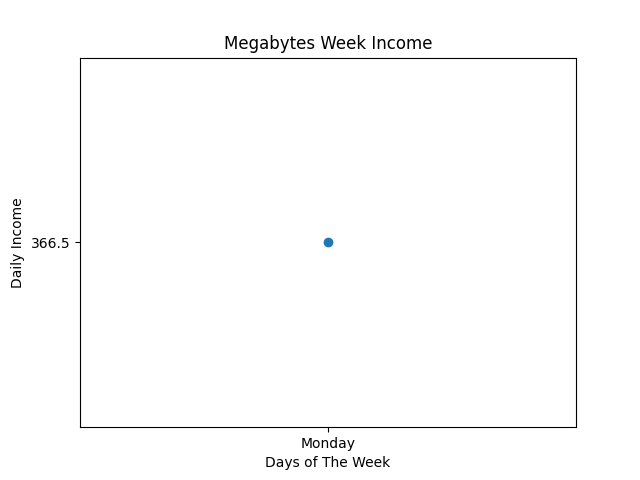
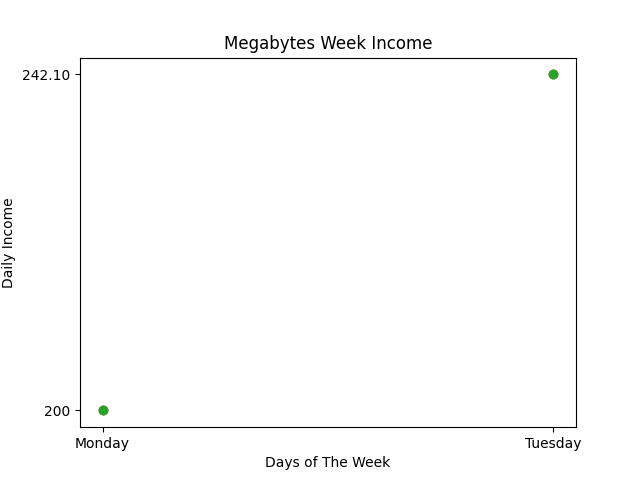
daily sales now on home page

diff --git a/website/templates/wednesday.html b/website/templates/wednesday.html
@@ -7,7 +7,7 @@
             <p>Please Type Data According to Your Till Report</p>
 
             <table>
-                <form action="/submit" method="post">
+                <form action="/submit_wednesday" method="post">
                     <tr>
                         <th></th>
                         <th>Total Income</th>
@@ -20,12 +20,12 @@
                     </tr>
                     <tr>
                         <th>Input Data</th>
-                        <th><input type="text" id="total_income" name="total_income"></th>
-                        <th><input type="text" id="highest_spend" name="highest_spend"></th>
-                        <th><input type="text" id="best_selling_item" name="best_selling_item"></th>
-                        <th><input type="text" id="worst_selling_item" name="worst_selling_item"></th>
-                        <th><input type="text" id="avg_basket_spend" name="avg_basket_spend"></th>
-                        <th><input type="text" id="staff_mvp" name="staff_mvp"> </th>
+                        <th><input type="text" id="total_income" name="total_income_wednesday"></th>
+                        <th><input type="text" id="highest_spend" name="highest_spend_wednesday"></th>
+                        <th><input type="text" id="best_selling_item" name="best_selling_item_wednesday"></th>
+                        <th><input type="text" id="worst_selling_item" name="worst_selling_item_wednesday"></th>
+                        <th><input type="text" id="avg_basket_spend" name="avg_basket_spend_wednesday"></th>
+                        <th><input type="text" id="staff_mvp" name="staff_mvp_wednesday"> </th>
                         <th><button type="submit">Submit Data</button></th>
                     </tr>
                 </form>
@@ -38,63 +38,68 @@
         {% if week_data %}
             <div>
                 <p>Here's What Happened Today.</p>
-                {% for data in week_data %}
-                <form action="/edit_wednesday/{{ data.id }}" method="post"></form>
-                    <table>
-                        <tr>
-                            <th></th>
-                            <th>Data</th>
-                            <th>Edit Data</th>
-                        </tr>
-                        <tr>
-                            <th>Total Income</th>
-                            <th>{{ data.total_income }}</th>
-                            <th><input type="text" name="edit_total_income" placeholder="Edit Data"><br></th>
-                            <th><button type="submit">Update Data</button></th>
-                        </tr>
-                        <tr>
-                            <th>Highest Spend</th>
-                            <th>{{ data.highest_spend }}</th>
-                            <th><input type="text" name="edit_highest_spend" placeholder="Edit Data"></th>
-                            <th><button type="submit">Update Data</button></th>
-                        </tr>
-                        <tr>
-                            <th>Best Selling Item</th>
-                            <th>{{ data.best_selling_item }}</th>
-                            <th><input type="text" name="edit_best_selling_item" placeholder="Edit Data"></th>
-                            <th><button type="submit">Update Data</button></th>
-                        </tr>
-                        <tr>
-                            <th>Worst Selling Item</th>
-                            <th>{{ data.worst_selling_item }}</th>
-                            <th><input type="text" name="edit_worst_selling_item" placeholder="Edit Data"></th>
-                            <th><button type="submit">Update Data</button></th>
-                        </tr>
-                        <tr>
-                            <th>Average Basket Spend</th>
-                            <th>{{ data.avg_basket_spend }}</th>
-                            <th><input type="text" name="edit_avg_basket_spend" placeholder="Edit Data"></th>
-                            <th><button type="submit">Update Data</button></th>
-                        </tr>
-                        <tr>
-                            <th>Staff MVP</th>
-                            <th>{{ data.staff_mvp }}</th>
-                            <th><input type="text" name="edit_staff_mvp" placeholder="Edit Data"></th>
-                            <th><button type="submit">Update Data</button></th>
-                        </tr>
-                    </table>
-                </form>
+
+                <table>
+                    <tr>
+                        <th>Total Income</th>
+                        <th>Highest Speed</th>
+                        <th>Best Selling Item</th>
+                        <th>Worst Selling Item</th>
+                        <th>Average Basket Spend</th>
+                        <th>Staff MVP</th>
+                        <th></th>
+                    </tr>
+
+                    {% for data in week_data %}
+                    <tr>
+                        <td>{{ data.total_income }}</td>
+                        <td>{{ data.highest_spend }}</td>
+                        <td>{{ data.best_selling_item }}</td>
+                        <td>{{ data.worst_selling_item }}</td>
+                        <td>{{ data.avg_basket_spend }}</td>
+                        <td>{{ data.staff_mvp }}</td>
+                        <td></td>
+                    </tr>
+                    <tr>
+                        <form action="/edit_wednesday/{{ data.id }}" method="post"></form>
+                            <td>
+                                <input type="text" name="edit_total_income" placeholder="Edit Data">
+                            </td>
+                            <td>
+                                <input type="text" name="edit_highest_spend" placeholder="Edit Data">
+                            </td>
+                            <td>
+                                <input type="text" name="edit_best_selling_item" placeholder="Edit Data">
+                            </td>
+                            <td>
+                                <input type="text" name="edit_worst_selling_item" placeholder="Edit Data">
+                            </td>
+                            <td>
+                                <input type="text" name="edit_avg_basket_spend" placeholder="Edit Data">
+                            </td>
+                            <td>
+                                <input type="text" name="edit_staff_mvp" placeholder="Edit Data">
+                            </td>
+                            <td>
+                                <form action="/edit_wednesday/{{ data.id }}" method="post"></form>
+                            </td>
+                            <td>
+                                <button type="submit">Update Data</button>
+                            </td>
+                        </form>
+                    </tr>
+                </table>
                 {% endfor %}
             </div>
 
     <br>
     <hr>
 
-<div class="charts-container">
-    <img class="chart" src="{{ url_for('static', filename='Monday-Drink.png') }}" alt="Drinks">
-    <img class="chart" src="{{ url_for('static', filename='Monday-Food.png') }}" alt="Food">
-    <img class="chart" src="\static\images\Payment Methods used Wednesday.png" alt="Payment Methods used Wednesday - Pie Chart">
-</div>
-{% endif %}
+            <div class="charts-container">
+                <img class="chart" src="{{ url_for('static', filename='Monday-Drink.png') }}" alt="Drinks">
+                <img class="chart" src="{{ url_for('static', filename='Monday-Food.png') }}" alt="Food">
+                <img class="chart" src="\static\images\Payment Methods used Wednesday.png" alt="Payment Methods used Wednesday - Pie Chart">
+            </div>
+        {% endif %}
 </div>
 {% endblock %}

diff --git a/website/templates/index.html b/website/templates/index.html
@@ -21,7 +21,6 @@
             </div>
         </div>
     </header>
-
     <main>
         <div class="day-container">
             <!-- Links to each day's page -->
@@ -45,20 +44,88 @@
     <p class="centered-text"> 
         Our menu is always changing to reflect the latest trends and flavours.
     </p>
+    <hr>
+    <br>
+    <br>
 
     <div>
-        <hr><br>
-        <div>
 
-            <p>Megabytes Week Income</p>
+            <h2>Megabytes Week Income</h2>
             {% if week_data %}
             <div>
                 <p><img src="\static\images\week_income.png"></p>
-            </div>
-            {% endif %}
 
         </div>
 
+        <div>
+            <h2> Daily Sales Overview</h2>
+
+            {% for data in week_data %}
+            <div>
+                {{ data.id }}
+                <table>
+                    <tr>
+                        <th></th>
+                        <th>Total Income</th>
+                        <th>Highest Spend</th>
+                        <th>Best Selling Item</th>
+                        <th>Worst Selling Item</th>
+                        <th>Average Basket Spend</th>
+                        <th>Staff MVP</th>
+                    </tr>
+                    <tr>
+                        <td>Edit Data</td>
+                        <form action="/edit_total_income/{{ data.id }}" method="post">
+                            <td>
+                            {{ data.total_income }}<br>
+                            <input type="text" name="edit_total_income" placeholder="Edit Data"><br>
+                            <button type="submit">Update Data</button>
+                            </td>
+                        </form>
+                        <form action="/edit_highest_spend/{{ data.id }}" method="post">
+                            <td>
+                            {{ data.highest_spend }}<br>
+                            <input type="text" name="edit_highest_spend" placeholder="Edit Data"><br>
+                            <button type="submit">Update Data</button>
+                            </td>
+                        </form>
+                        <form action="/edit_best_selling_item/{{ data.id }}" method="post">
+                            <td>
+                            {{ data.best_selling_item }}<br>
+                            <input type="text" name="edit_best_selling_item" placeholder="Edit Data"><br>
+                            <button type="submit">Update Data</button>
+                            </td>
+                        </form>
+                        <form action="/edit_worst_selling_item/{{ data.id }}" method="post">
+                            <td>
+                            {{ data.worst_selling_item }}<br>
+                            <input type="text" name="edit_worst_selling_item" placeholder="Edit Data"><br>
+                            <button type="submit">Update Data</button>
+                            </td>
+                        </form>
+                        <form action="/edit_avg_basket_spend/{{ data.id }}" method="post">
+                            <td>
+                            {{ data.avg_basket_spend }}<br>
+                            <input type="text" name="edit_avg_basket_spend" placeholder="Edit Data"><br>
+                            <button type="submit">Update Data</button>
+                            </td>
+                        </form>
+                        <form action="/edit_staff_mvp/{{ data.id }}" method="post">
+                            <td>
+                            {{ data.staff_mvp }}<br>
+                            <input type="text" name="edit_staff_mvp" placeholder="Edit Data"><br>
+                            <button type="submit">Update Data</button>
+                            </td>
+                        </form>
+                        <hr>
+                    </tr>
+                </table>
+
+            </div>
+                {% endfor %}
+
+                {% endif %}
+        </div>        
     </div>
     
 </body>

diff --git a/website/templates/friday.html b/website/templates/friday.html
@@ -3,7 +3,7 @@
 {% block content %}
     <div class="container">
         <div class="form-container">
-            
+
             <p>Please Type Data According to Your Till Report</p>
 
             <table>

diff --git a/website/templates/monday.html b/website/templates/monday.html
@@ -3,7 +3,7 @@
 {% block content %}
     <div class="container">
         <div class="form-container">
-            
+
             <p>Please Type Data According to Your Till Report</p>
 
             <table>

diff --git a/website/static/style.css b/website/static/style.css
@@ -32,7 +32,7 @@ label {
 }
 
 input[type="text"] {
-    width: 10%;
+    width: 90%;
     padding: 5px;
     margin-bottom: 5px;
     border: 1px solid #15616D; /* Light blue */

diff --git a/website/views.py b/website/views.py
@@ -18,7 +18,6 @@ id_to_day = {
     6: "Saturday",
     7: "Sunday",
 }
-
 @my_view.route('/')
 def home():
     week_data = Megabytes.query.all()
@@ -49,27 +48,61 @@ def submit():
     db.session.commit()
     return redirect(url_for("my_view.home"))
 
-@my_view.route("/edit_monday/<data_id>", methods=["POST"])
-def edit_monday(data_id):
+@my_view.route("/edit_total_income/<data_id>", methods=["POST"])
+def edit_total_income(data_id):
     data = Megabytes.query.filter_by(id=data_id).first()
-
     edit_total_income = request.form.get("edit_total_income")
-    edit_highest_spend = request.form.get('edit_highest_spend')
-    edit_best_selling_item = request.form.get('edit_best_selling_item')
-    edit_worst_selling_item = request.form.get('edit_worst_selling_item')
-    edit_avg_basket_spend = request.form.get('edit_avg_basket_spend')
-    edit_staff_mvp = request.form.get('edit_staff_mvp')
-
     data.total_income = edit_total_income
-    data.highest_spend = edit_highest_spend
-    data.best_selling_item = edit_best_selling_item
-    data.worst_selling_item = edit_worst_selling_item
-    data.avg_basket_spend = edit_avg_basket_spend
-    data.staff_mvp = edit_staff_mvp
-
     db.session.commit()
     edition = "Your data was successfully edited!"
-    return redirect(url_for("my_view./monday/", edition=edition))
+    return redirect(url_for("my_view.home", edition=edition))
+
+@my_view.route("/edit_highest_spend/<data_id>", methods=["POST"])
+def edit_highest_spend(data_id):
+    data = Megabytes.query.filter_by(id=data_id).first()
+    edit_highest_spend = request.form.get('edit_highest_spend')
+    data.highest_spend = edit_highest_spend
+    db.session.commit()
+    edition = "Your data was successfully edited!"
+    return redirect(url_for("my_view.home", edition=edition))
+
+@my_view.route("/edit_best_selling_item/<data_id>", methods=["POST"])
+def edit_best_selling_item(data_id):
+    data = Megabytes.query.filter_by(id=data_id).first()
+    edit_best_selling_item = request.form.get('edit_best_selling_item')
+    data.best_selling_item = edit_best_selling_item
+    db.session.commit()
+    edition = "Your data was successfully edited!"
+    return redirect(url_for("my_view.home", edition=edition))
+
+@my_view.route("/edit_worst_selling_item/<data_id>", methods=["POST"])
+def edit_worst_selling_item(data_id):
+    data = Megabytes.query.filter_by(id=data_id).first()
+    edit_worst_selling_item = request.form.get('edit_worst_selling_item')
+    data.worst_selling_item = edit_worst_selling_item
+    db.session.commit()
+    edition = "Your data was successfully edited!"
+    return redirect(url_for("my_view.home", edition=edition))
+
+@my_view.route("/edit_avg_basket_spend/<data_id>", methods=["POST"])
+def edit_avg_basket_spend(data_id):
+    data = Megabytes.query.filter_by(id=data_id).first()
+    edit_avg_basket_spend = request.form.get('edit_avg_basket_spend')
+    data.avg_basket_spend = edit_avg_basket_spend
+    db.session.commit()
+    edition = "Your data was successfully edited!"
+    return redirect(url_for("my_view.home", edition=edition))
+
+@my_view.route("/edit_staff_mvp/<data_id>", methods=["POST"])
+def edit_staff_mvp(data_id):
+    data = Megabytes.query.filter_by(id=data_id).first()
+    edit_staff_mvp = request.form.get('edit_staff_mvp')
+    data.staff_mvp = edit_staff_mvp
+    db.session.commit()
+    edition = "Your data was successfully edited!"
+    return redirect(url_for("my_view.home", edition=edition))
+
+
 
 @my_view.route("/monday/", methods = ['GET', 'POST'])
 def monday():
